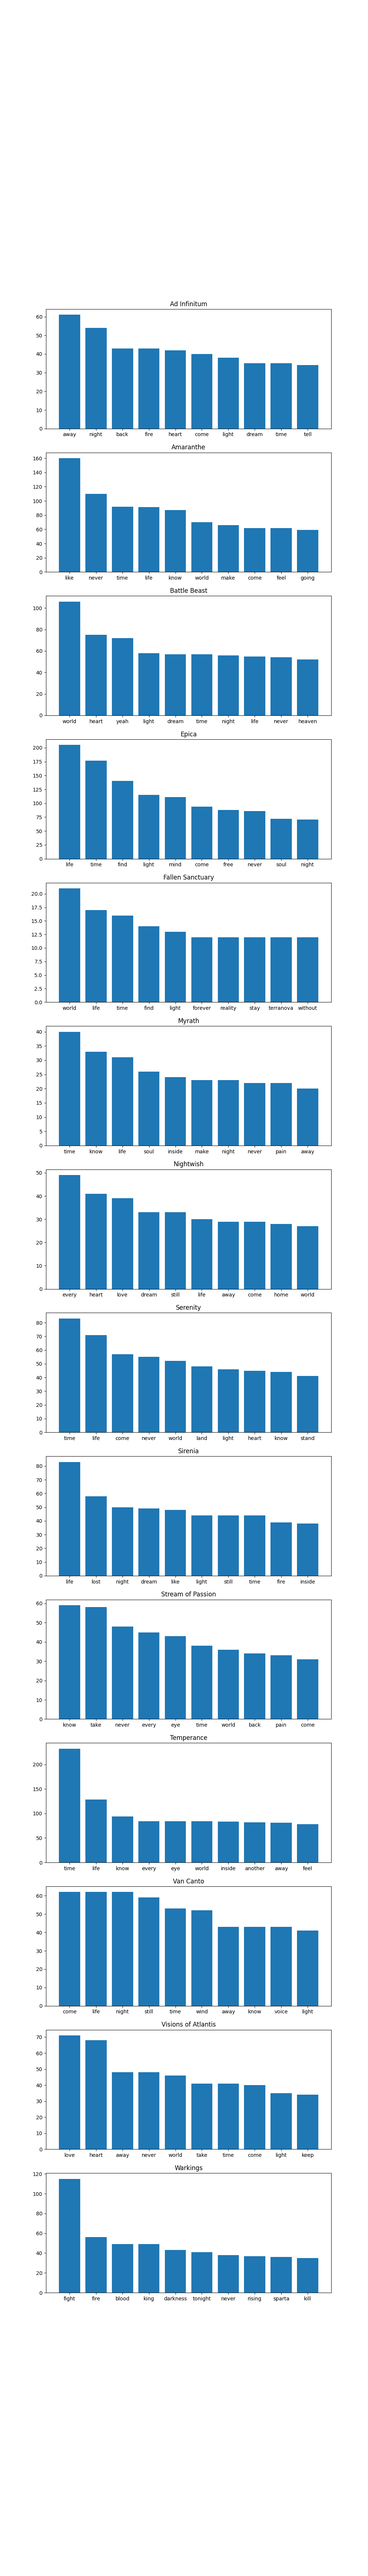
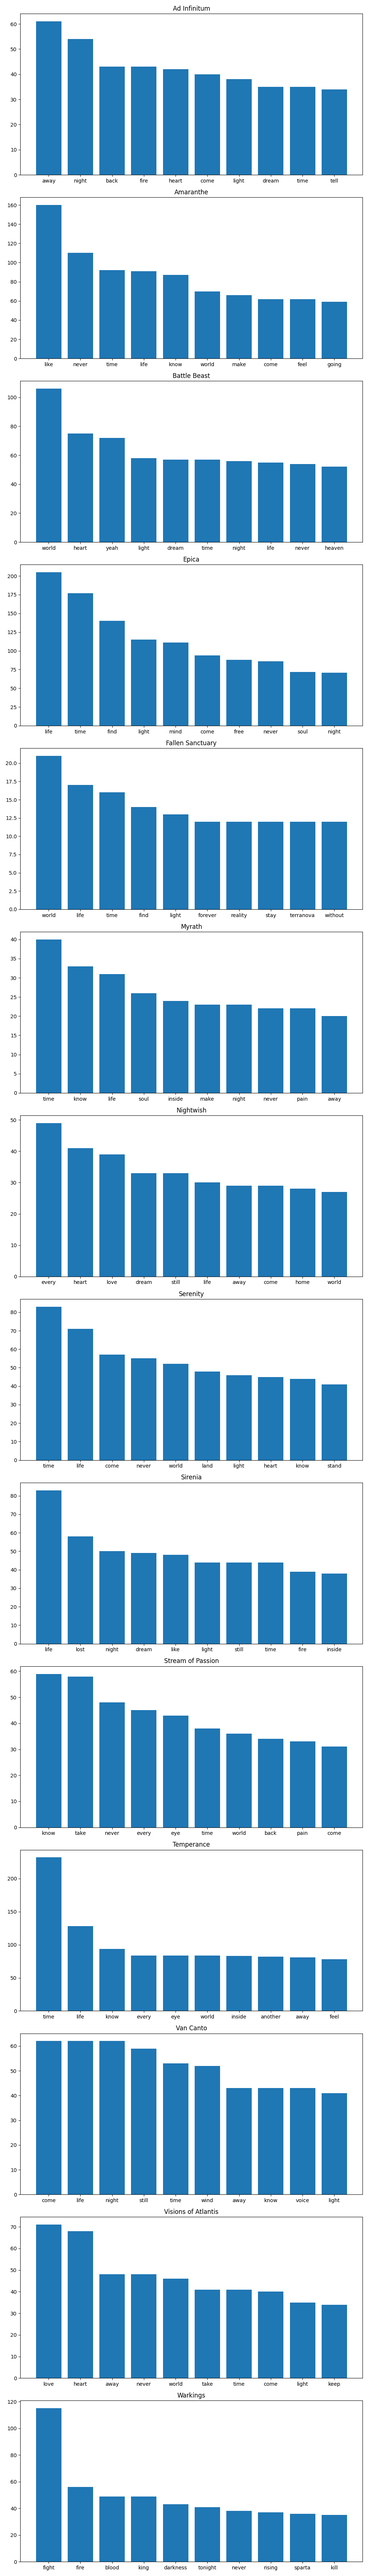
fix typo

diff --git a/lyrics_analysis/04_most_common_word.py b/lyrics_analysis/04_most_common_word.py
@@ -41,4 +41,5 @@ for index, i in enumerate(data):
     axs[index].bar(word_count.keys(), word_count.values())
     axs[index].set_title(i["artist"])
 
+fig.tight_layout()
 fig.savefig("images/most_common_word.png")

diff --git a/README.md b/README.md
@@ -22,7 +22,7 @@ Updated version of <https://github.com/kahnwong/lyrics_visualization>
 ![word count box plot](images/word_count_box_plot.png)
 
 - Nightwish has a wide q4, since their lyrics contain a lot of spoken words.
-- Most bands are not on the "wordy" side, see Warkings and Ad Infinitum.
+- Most bands are on the "wordy" side, see Warkings and Ad Infinitum.
 
 ### Most common word
 
